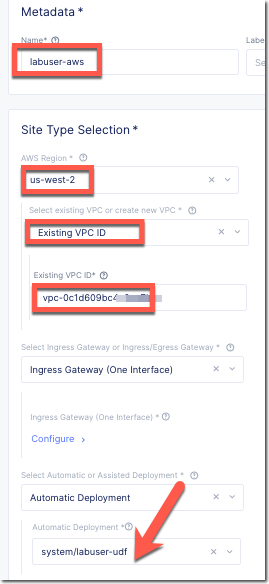
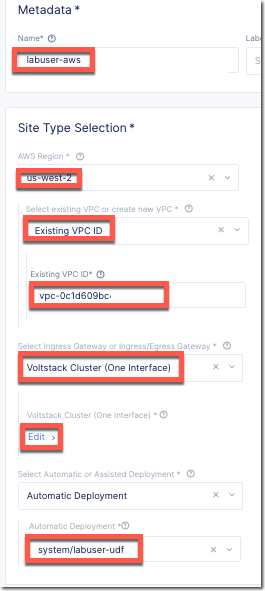
restore network policy; update images

diff --git a/application/docs/pre-work/voltAwsSite.rst b/application/docs/pre-work/voltAwsSite.rst
@@ -168,8 +168,6 @@ Exercise 4: Create AWS VPC Site
   
         The maximum site name length is 16 characters. If your namespace is long adjust your site name accordingly.
 
-    |aws_vpc_site|
-
 #. Under the *Voltstack Cluster (One Interface)* section, click the *Configure* link.
 
 #. Enter the following variables:
@@ -180,9 +178,9 @@ Exercise 4: Create AWS VPC Site
     AWS AZ Name             |aws_zone|
     Select Existing or ..   Select Existing Subnet
     Existing Subnet ID      [output from terraform]
+    Manage Network Policy   Active Network Policies
+    Network Policy          your_namespace-aws
     ======================= =====
-
-    |aws_vpc_site_interface|
 
 #. Click *Apply*.
 
